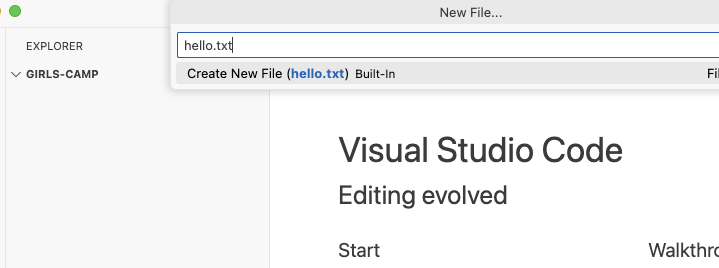
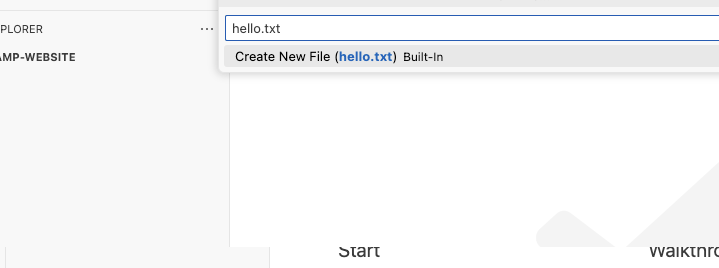
Use GitHub Desktop

diff --git a/01-setup.md b/01-setup.md
@@ -2,24 +2,6 @@
 
 この章では、プログラミングをするための環境をセットアップしていきます。
 
-## Visual Studio Codeを使ってみる
-プログラミングをするためのエディターとして、Visual Studio Code (VS Code) を使ってみましょう。
-<https://code.visualstudio.com/>
-
-世の中には様々なエディターがありますが、Visual Studio Codeは無料で使える非常に人気のあるエディターです。
-
-### VS Codeでテキストファイルを作成してみる
-- VS Codeで camp-website という名前のディレクトリを作成し、開いてみましょう  
-  ![](images/01-setup-open-directory.png)
-- 作成したディレクトリに hello.txt というファイルを作成して、`Hello, World!` と書いて保存してみましょう  
-  ![](images/01-setup-hello.png)
-
-### Tips
-- VS Codeの表示を日本語にするには以下の手順を参考にしてください
-  - <https://code.visualstudio.com/docs/getstarted/locales>
-- VS Codeのより発展的な使い方については以下のドキュメントを参考にしてください
-  - <https://code.visualstudio.com/docs>
-
 ## GitHubを使ってみる
 GitHubはプログラムのソースコードを管理するためのサービスです。
 非常に人気のあるサービスで、多くのウェブ開発者が利用しています。
@@ -42,80 +24,63 @@ GitHub <https://github.com/> にアカウントを作ってみましょう。
 作成したリポジトリは最初は空っぽです。
 作成したプログラムはこのリポジトリに保存していきます。
 
-### GitHubリポジトリにファイルをプッシュしてみる
+## GitHub Desktopをインストールする
+GitHub DesktopはGitHubのリポジトリを簡単に管理できるアプリケーションです。
+以下のリンクからダウンロードしてインストールしましょう。
 
-先ほど作成したディレクトリ camp-website 内にある hello.txt をGitHubに作成した camp-website リポジトリにプッシュしてみましょう。
+<https://desktop.github.com/>
 
-#### SSH鍵の設定
-まずは手元からGitHubリポジトリコードをプッシュするための認証情報を設定します。
+インストールが完了したら、先ほど作成したGitHubアカウントでサインインします。
 
-まずはTerminalを開きます。
+### リポジトリをクローンする
+GitHub Desktopを起動したら、先ほど作成したリポジトリをクローンします。
 
-![](images/01-setup-new-terminal.png)
+![](images/01-setup-git-clone.png)
 
-開いたターミナル内で以下のコマンドを実行しSSH鍵を作成します。
+クローンとは、GitHubのリポジトリを自分のコンピュータにコピーすることです。
 
-```
-ssh-keygen -t ed25519 -C "your_email@example.com"
-```
+![](images/01-setup-github-desktop.png)
 
-（`your_email@example.com` の部分はあなたのメールアドレスに置き換えてください）
+これでGitHubリポジトリを手元にコピーしてくることができました。
 
-![](images/01-setup-terminal.png)
+## Visual Studio Codeを使ってみる
+プログラミングをするためのエディターとして、Visual Studio Code (VS Code) を使ってみましょう。
+<https://code.visualstudio.com/>
 
-コマンドの結果で聞かれている通りに適当なパスフレーズを入力してください。
+世の中には様々なエディターがありますが、Visual Studio Codeは無料で使える非常に人気のあるエディターです。
 
-次に以下のコマンドを実行し、作成したSSH鍵の情報をmacOSのキーチェーンに登録します。
+### VS Codeでクローンしたリポジトリを開く
+GitHub Desktopの「Open in Visual Studio Code」からVS Codeでリポジトリを開くことができます。
 
-```
-ssh-add --apple-use-keychain ~/.ssh/id_ed25519
-```
+### VS Codeでテキストファイルを作成してみる
+- クローンしたリポジトリ内に hello.txt というファイルを作成して、`Hello, World!` と書いて保存してみましょう  
+  ![](images/01-setup-hello.png)
 
-ここで作成したSSH鍵の「公開鍵」をクリップボードにコピーします。
+### 変更をGitHubにプッシュする
+ファイルを作成したら、その変更をGitHubに反映させましょう。
 
-```
-pbcopy < ~/.ssh/id_ed25519.pub
-```
+1. GitHub Desktopで変更されたファイルを確認します
+2. 変更内容を説明する「コミットメッセージ」を入力します
+3. 「Commit to main」ボタンをクリックしてコミットします
+4. 「Push origin」ボタンをクリックして変更をGitHubに反映させます
 
-GitHubアカウントのSettings > SSH and GPG keysの画面 <https://github.com/settings/keys> の「New SSH key」ボタンから作成した鍵の「公開鍵」を登録してください。
+![](images/01-setup-github-desktop-commit.png)
 
-![](images/01-setup-new-ssh-key.png)
+これで hello.txt がGitHubリポジトリにプッシュされました。
 
+GitHubのリポジトリページにアクセスすると、手元で作成した hello.txt の内容が反映されていることを確認できます。
 
-これで手元のGitリポジトリをGitHubにプッシュする準備が整いました。
+![](images/01-setup-github-hellotxt.png)
 
-#### Gitリポジトリのプッシュ
-では手元のディレクトリ内のコードをGitHubリポジトリにプッシュしてみましょう。
+ここまでで今日のプログラミングに使う道具の説明は終了です。
+次の章からは実際に手を動かしてウェブサイトを作成してきましょう。
 
-まずは 手元のディレクトリ内でGitリポジトリを初期化します。
-
-![](images/01-setup-init-repo.png)
-
-次に、 ローカルのGitリポジトリのプッシュ先としてGitHubのリポジトリを追加します。
-
-![](images/01-setup-git-add-remote.png)
-
-![](images/01-setup-git-add-remote-url.png)
-
-![](images/01-setup-git-add-remote-name.png)
-
-ここで設定するURLはGitHubリポジトリにある「SSH」URLです。
-![](images/01-setup-git-ssh-url.png)
-
-URLの次にリモートリポジトリの名前を設定しますが、ここでは origin という名前を使います。
-
-（origin という名前ではなくても良いですが、一般的にメインで使うリモートリポジトリには origin という名前を使うことが多いです）
-
-ここまで来たらあとは Commit & Push すると、先程作成したリポジトリに hello.txt がプッシュされます。
-
-![](images/01-setup-commit-and-push.png)
-
-コミット時は毎回「この変更がなんなのか」を示す「コミットメッセージ」を書く必要があります。自分で後から見てもわかるようなメッセージを書きましょう。
-
-![](images/01-setup-commit-message.png)
-
-### Tips
-- ここで説明したGitHubへのSSH鍵の登録については以下ドキュメントで詳細な手順が説明されています
-  - <https://docs.github.com/ja/github/authenticating-to-github/connecting-to-github-with-ssh>
+## Tips
+- VS Codeの表示を日本語にするには以下の手順を参考にしてください
+  - <https://code.visualstudio.com/docs/getstarted/locales>
+- VS Codeのより発展的な使い方については以下のドキュメントを参考にしてください
+  - <https://code.visualstudio.com/docs>
 - GitHubのより発展的な使い方については以下のドキュメントを参考にしてください
   - <https://docs.github.com/ja/get-started>
+- GitHub Desktopの詳しい使い方については以下のドキュメントを参考にしてください
+  - <https://docs.github.com/ja/desktop>
